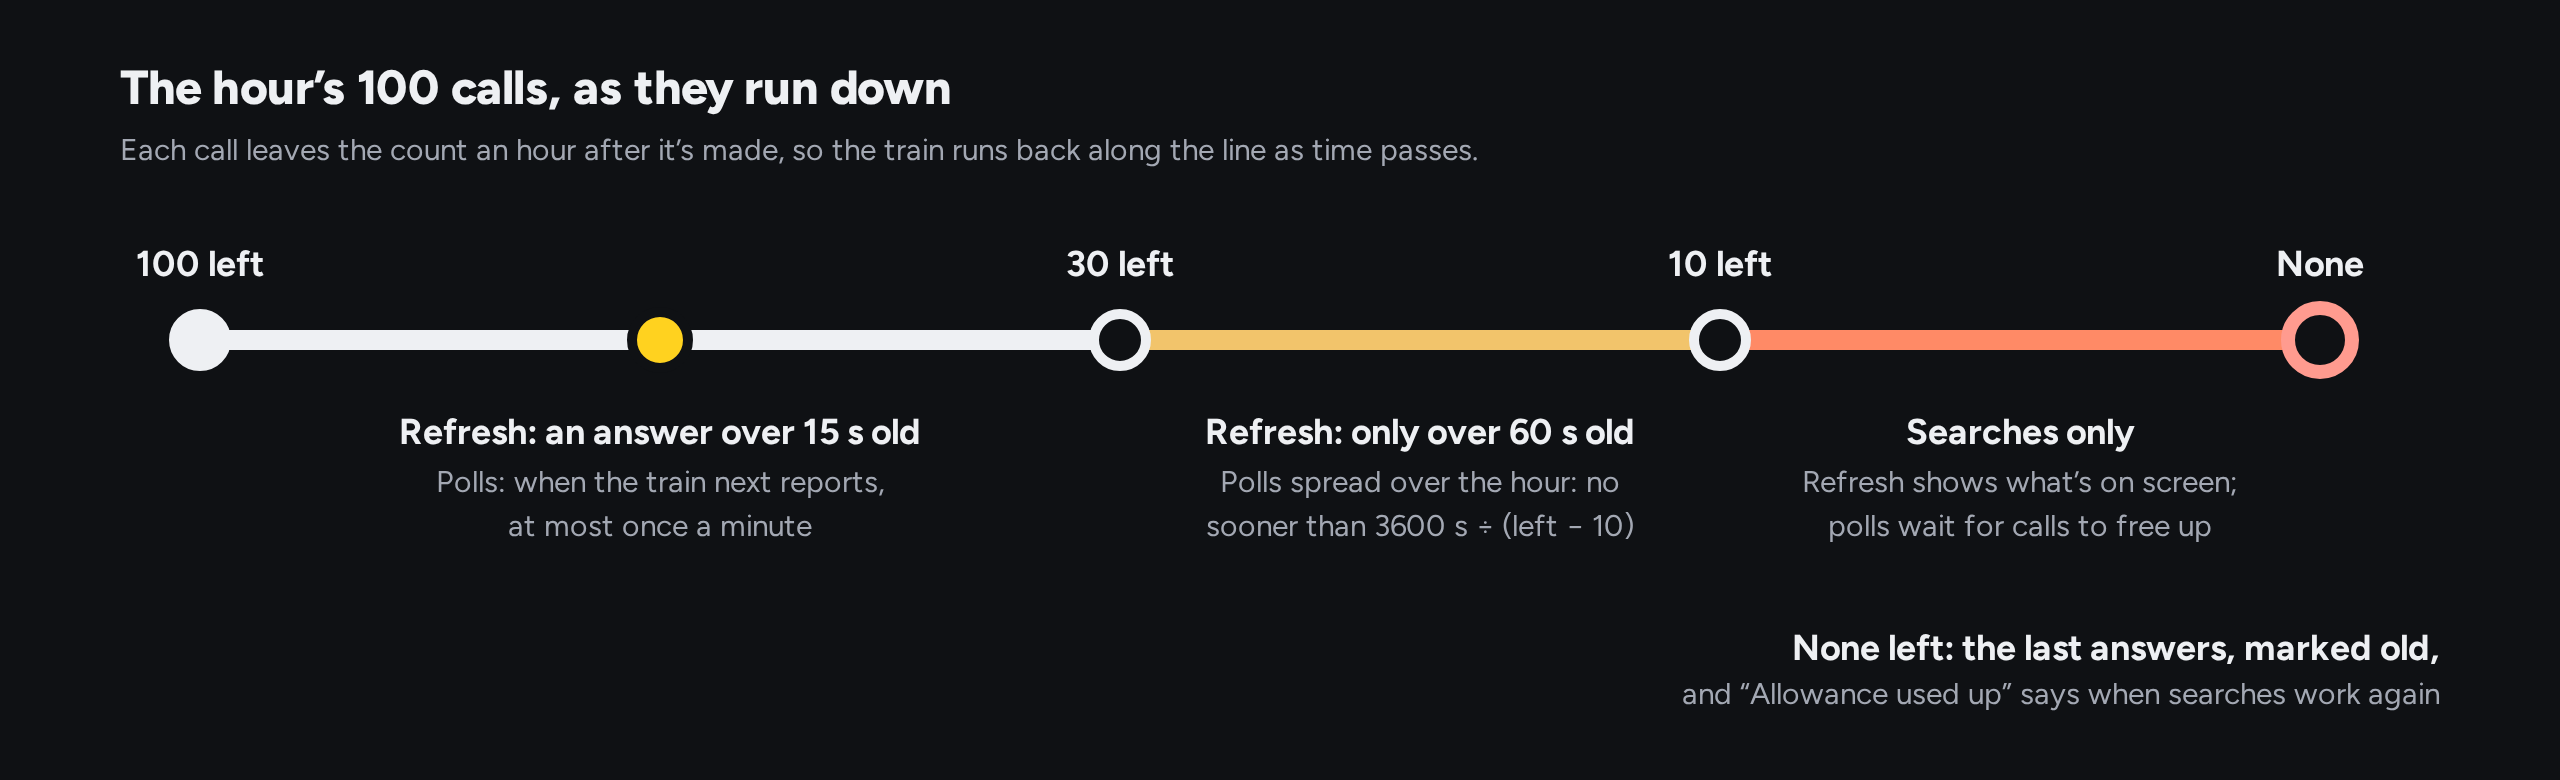
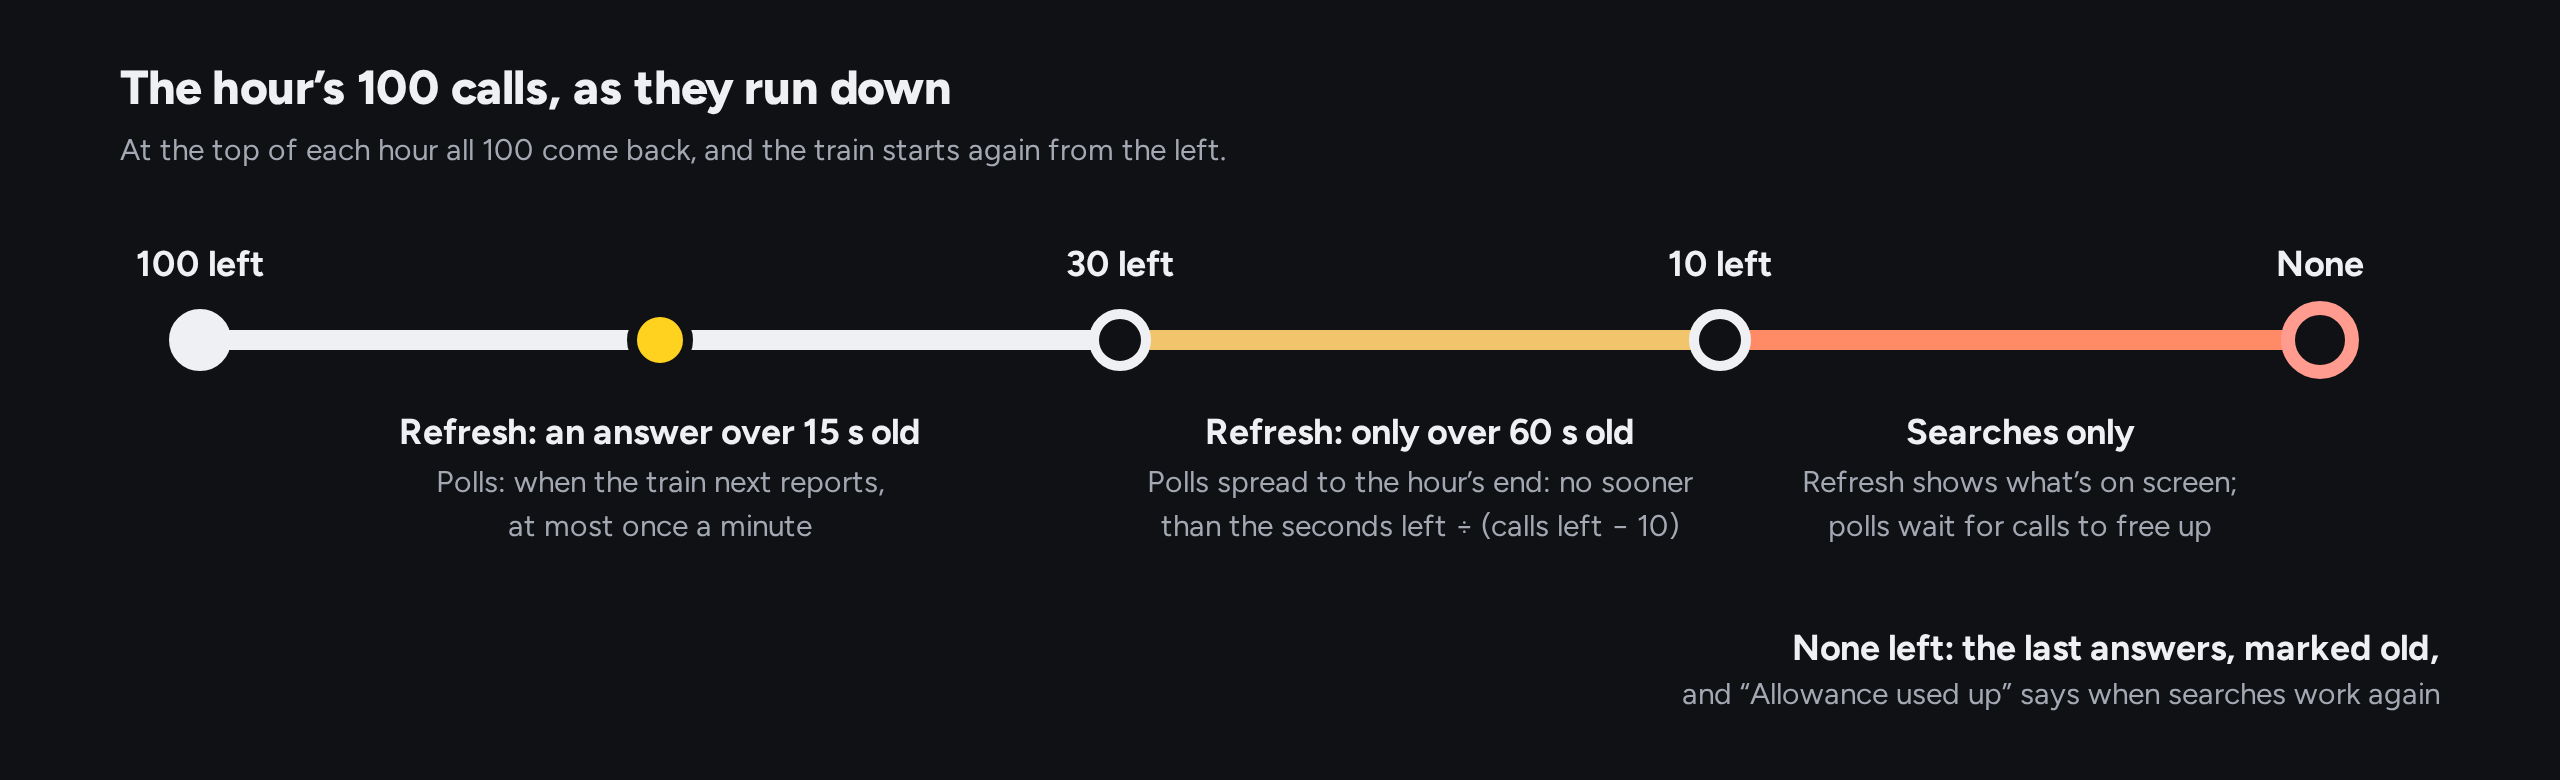
The hour's calls come back at the top of the hour
RTT's minute and hour are clock windows (measured), not rolling ones. A spent hour now frees at the top of the next, and polls spread what's left to the hour's end. The day and week stay rolling until measured.

Changed region(s): [[0.4375, 0.5846, 0.6562, 0.7077], [0.0312, 0.1846, 0.5938, 0.2154]]

diff --git a/src/core/budget.ts b/src/core/budget.ts
@@ -7,6 +7,13 @@ export const DIMENSIONS = { minute: 60, hour: 3600, day: 86400, week: 604800 } a
 export type Dim = keyof typeof DIMENSIONS;
 const DIMS = Object.keys(DIMENSIONS) as Dim[];
 export const FREE_LIMITS: Record<Dim, number> = { minute: 10, hour: 100, day: 1000, week: 10000 }; // as RTT sent them, 2026-11-08
+/**
+ * The windows RTT counts by the clock: all their calls come back at the top of the minute or hour (seen 2026-11-08:
+ * a full 10 at 22:19:06 after a call at 22:18:54; a full 100 at 23:00:08 after calls from 22:20). The day and week
+ * aren't known to, so they're counted as rolling windows, which can only be too careful. UK time is a whole number of
+ * hours from UTC, so the clock's minutes and hours start on UTC's.
+ */
+const CLOCK_WINDOWS: ReadonlySet<Dim> = new Set<Dim>(["minute", "hour"]);
 
 export interface BudgetState {
   limits: Record<Dim, number>;
@@ -35,10 +42,21 @@ export class Budget {
     return new Budget(clock, 0, true);
   }
 
-  /** Calls in the last `secs` seconds. One exactly that old has just left, so freeAt can name an exact moment. */
-  private used(now: Ms, secs: number): number {
-    const cutoff = now - secs * 1000;
-    return this.calls.filter((t) => t > cutoff).length;
+  /** When a clock window started, at `now`. */
+  private static start(dim: Dim, now: Ms): Ms {
+    const win = DIMENSIONS[dim] * 1000;
+    return Math.floor(now / win) * win;
+  }
+
+  /** Whether a call (or a header) made at `t` still counts in this window at `now`. */
+  private static counts(dim: Dim, t: Ms, now: Ms): boolean {
+    if (CLOCK_WINDOWS.has(dim)) return t >= Budget.start(dim, now);
+    return t > now - DIMENSIONS[dim] * 1000; // one exactly that old has just left, so freeAt can name an exact moment
+  }
+
+  /** Calls counted in this window. */
+  private used(now: Ms, dim: Dim): number {
+    return this.calls.filter((t) => Budget.counts(dim, t, now)).length;
   }
 
   /** How many free calls in this window a kind of call needs: background ones leave the reserve for searches. */
@@ -47,12 +65,14 @@ export class Budget {
   }
 
   /**
-   * When `need` calls in this window are free again, if nothing more is spent: our own count frees up as its oldest
-   * calls leave the window, a header's count when its window is over. Null if it never can (a limit below `need`).
+   * When `need` calls in this window are free again, if nothing more is spent: a clock window's all at once when it
+   * turns; a rolling one's as its oldest calls leave, or a header's count when its window is over. Null if it never
+   * can (a limit below `need`).
    */
   freeAt(dim: Dim, need: number, now: Ms = this.clock()): Ms | null {
     const win = DIMENSIONS[dim] * 1000;
     if (this.limits[dim] < need) return null;
+    if (CLOCK_WINDOWS.has(dim)) return this.remaining(dim, now) >= need ? now : Budget.start(dim, now) + win;
     const inWindow = this.calls.filter((t) => t > now - win);
     const leave = inWindow.length - (this.limits[dim] - need); // this many of the oldest must leave
     let at = leave > 0 ? inWindow[leave - 1] + win : now;
@@ -73,12 +93,12 @@ export class Budget {
   }
 
   remaining(dim: Dim, now: Ms = this.clock()): number {
-    let ours = this.limits[dim] - this.used(now, DIMENSIONS[dim]);
+    let ours = this.limits[dim] - this.used(now, dim);
     const h = this.headerRemaining.get(dim);
     if (h) {
       const [value, seen] = h;
       const since = this.calls.filter((t) => t > seen).length;
-      if (now - seen < DIMENSIONS[dim] * 1000) ours = Math.min(ours, value - since); // a header holds within its window
+      if (Budget.counts(dim, seen, now)) ours = Math.min(ours, value - since); // a header holds within its window
     }
     return Math.max(ours, 0);
   }
@@ -127,11 +147,16 @@ export class Budget {
     }
   }
 
-  /** Seconds between background re-fetches of one train, so the hour isn't used up early. */
+  /**
+   * Seconds between background re-fetches of one train, so the hour isn't used up early: what's left (less the
+   * reserve), spread over the time until the hour turns and all its calls come back.
+   */
   refreshInterval(floor = 30): number {
-    const left = this.remaining("hour") - this.reserve;
+    const now = this.clock();
+    const left = this.remaining("hour", now) - this.reserve;
     if (left <= 0) return 600;
-    return Math.max(floor, 3600 / left);
+    const untilTurn = (Budget.start("hour", now) + DIMENSIONS.hour * 1000 - now) / 1000;
+    return Math.max(floor, untilTurn / left);
   }
 
   state(): BudgetState {

diff --git a/test/core.test.ts b/test/core.test.ts
@@ -40,32 +40,45 @@ describe("budget", () => {
     clock.advance(31);
     expect(b.canSpend(true)).toBe(true);
   });
-  it("slows refreshes when the hour runs low", () => {
-    const b = new Budget(clock.now);
-    expect(b.refreshInterval()).toBe(40);
+  // RTT's minute and hour are the clock's (seen 2026-11-08: a full 10 again at 22:19:06 after a call at 22:18:54, and a
+  // full 100 at 23:00:08 after calls from 22:20). So the hour's calls all come back at the top of the hour.
+  it("paces what's left of the hour over the time until it turns", () => {
+    const b = new Budget(clock.now); // 14:20: 40 minutes left
+    expect(b.refreshInterval()).toBe(30); // 2400 s ÷ 90 is under the floor
     b.observe(200, { "x-ratelimit-remaining-hour": "20" });
-    expect(b.refreshInterval()).toBe(360);
+    expect(b.refreshInterval()).toBe(240); // 2400 s ÷ 10
     b.observe(200, { "x-ratelimit-remaining-hour": "5" });
     expect(b.refreshInterval()).toBe(600);
   });
-  it("knows when a spent hour frees up: when its oldest calls are an hour old", () => {
+  it("a spent hour frees at the top of the next one, all at once", () => {
     const b = new Budget(clock.now);
-    const first = clock.now();
     for (let i = 0; i < 100; i++) {
       b.spend();
-      clock.advance(30); // two a minute: only the hour runs out
+      clock.advance(10); // the minute never runs out (spend doesn't ask), the hour does, by 14:36:40
     }
+    const top = fromLondon(2026, 11, 7, 15, 0);
     expect(b.remaining("hour")).toBe(0);
-    expect(b.freeAt("hour", 1)).toBe(first + 3_600_000);
-    expect(b.freeAt("hour", 11)).toBe(first + 10 * 30_000 + 3_600_000); // the 11th oldest call leaves
-    expect(b.freeAt("minute", 1)).toBe(clock.now()); // not spent: free now
-    clock.t = first + 3_600_000;
-    expect(b.remaining("hour")).toBe(1);
+    expect(b.freeAt("hour", 1)).toBe(top);
+    expect(b.freeAt("hour", 11)).toBe(top);
+    clock.t = top - 1000;
+    expect(b.remaining("hour")).toBe(0);
+    clock.t = top;
+    expect(b.remaining("hour")).toBe(100);
+    expect(b.remaining("day")).toBe(900); // the day isn't known to be the clock's: it stays a rolling 24 hours
   });
-  it("a header saying the hour is spent holds until its hour is over", () => {
+  it("a spent minute frees at the top of the next minute", () => {
+    clock.t = fromLondon(2026, 11, 7, 14, 20) + 50_000;
+    const b = new Budget(clock.now);
+    for (let i = 0; i < 10; i++) b.spend();
+    expect(b.canSpend(true)).toBe(false);
+    expect(b.freeAt("minute", 1)).toBe(fromLondon(2026, 11, 7, 14, 21));
+  });
+  it("a header saying the hour is spent holds until the hour turns, not for an hour", () => {
     const b = new Budget(clock.now);
     b.observe(200, { "x-ratelimit-remaining-hour": "0" });
-    expect(b.freeAt("hour", 1)).toBe(clock.now() + 3_600_000);
+    expect(b.freeAt("hour", 1)).toBe(fromLondon(2026, 11, 7, 15, 0));
+    clock.t = fromLondon(2026, 11, 7, 15, 0);
+    expect(b.remaining("hour")).toBe(100); // the old header belongs to the last hour
   });
 });
 

diff --git a/test/messages.test.ts b/test/messages.test.ts
@@ -28,23 +28,24 @@ describe("when the allowance stops a call", () => {
     const e = await c.service("X1:2026-11-07").catch((x: unknown) => x);
     expect(e).toBeInstanceOf(AllowanceError);
     expect(e).toBeInstanceOf(BusyError); // still retried like any busy answer
-    expect((e as Error).message).toBe("This key's calls for this hour are used up. Searches work again at 10:20.");
+    expect((e as Error).message).toBe("This key's calls for this hour are used up. Searches work again at 10:00.");
   });
 
-  it("an hour spent by its own calls names the time, and tries again only once a background call can go", async () => {
-    const own = new Clock(fromLondon(2026, 11, 7, 8, 30));
+  it("an hour spent by its own calls names the top of the hour, and the retry waits for it too", async () => {
+    const own = new Clock(fromLondon(2026, 11, 7, 9, 0));
     const b = new Budget(own.now);
     const c = new RttClient(ok, ACCESS, b, own.now);
     for (let i = 0; i < 100; i++) {
       b.spend();
-      own.advance(30); // the last at 09:19:30
+      own.advance(12); // the last at 09:19:48
     }
     const e = await c.service("X4:2026-11-07").catch((x: unknown) => x);
-    expect((e as Error).message).toBe("This key's calls for this hour are used up. Searches work again at 09:30.");
-    // The page's retry is a background call, which can't use the 10 kept for searches: not before 11 are free
+    expect((e as Error).message).toBe("This key's calls for this hour are used up. Searches work again at 10:00.");
+    // The page's retry is a background call, which can't use the 10 kept for searches: not before 11 are free, which
+    // with the clock's hour is the same moment
     const at = (e as BusyError).retryAt!;
     expect(at).toBeGreaterThanOrEqual(b.freeAt("hour", 11)!);
-    expect(text(problemView("Allowance used up", (e as Error).message, { secs: 30, at }))).toMatch(/tries again by itself at 09:35/);
+    expect(text(problemView("Allowance used up", (e as Error).message, { secs: 30, at }))).toMatch(/tries again by itself at 10:00/);
   });
 
   it("names the minute when only the minute's calls are gone", async () => {

diff --git a/test/readme/allowance.pictures.ts b/test/readme/allowance.pictures.ts
@@ -93,7 +93,7 @@ test("the hour: as its calls run down, the app slows itself", async ({ page, err
   const W = 1280, H = 390, Y = 170;
   const svg = `<svg width="${W}" height="${H}" viewBox="0 0 ${W} ${H}" role="img">
     ${text("h", 60, 52, ["The hour’s 100 calls, as they run down"], "start")}
-    ${text("s", 60, 80, ["Each call leaves the count an hour after it’s made, so the train runs back along the line as time passes."], "start")}
+    ${text("s", 60, 80, ["At the top of each hour all 100 come back, and the train starts again from the left."], "start")}
     <path class="line" d="M100 ${Y} L560 ${Y}"/>
     <path class="low" d="M560 ${Y} L860 ${Y}"/>
     <path class="kept" d="M860 ${Y} L1160 ${Y}"/>
@@ -109,7 +109,7 @@ test("the hour: as its calls run down, the app slows itself", async ({ page, err
     ${text("t", 330, 222, ["Refresh: an answer over 15 s old"])}
     ${text("s", 330, 246, ["Polls: when the train next reports,", "at most once a minute"])}
     ${text("t", 710, 222, ["Refresh: only over 60 s old"])}
-    ${text("s", 710, 246, ["Polls spread over the hour: no", "sooner than 3600 s ÷ (left − 10)"])}
+    ${text("s", 710, 246, ["Polls spread to the hour’s end: no sooner", "than the seconds left ÷ (calls left − 10)"])}
     ${text("t", 1010, 222, ["Searches only"])}
     ${text("s", 1010, 246, ["Refresh shows what’s on screen;", "polls wait for calls to free up"])}
     ${text("t", 1220, 330, ["None left: the last answers, marked old,"], "end")}

diff --git a/test/rail.test.ts b/test/rail.test.ts
@@ -53,8 +53,10 @@ describe("a stale answer near the end of a journey", () => {
   });
 
   it("the hour's calls kept back: keeps asking, no sooner than the allowance allows", async () => {
-    await cached(route(), { "x-ratelimit-remaining-hour": "10" }); // only the search reserve left
+    await cached(route());
     clock.advance(lateEnough);
+    // only the search reserve left, said in this hour (the hour is the clock's: one from 07:50 has gone by 08:42)
+    rail.budget.observe(200, { "x-ratelimit-remaining-hour": "10" });
     const res = await rail.service(UID, { background: true });
     expect(res.fetched.stale).toBe(true);
     expect(res.refreshAfter).toBe(Math.max(POLL.overdue, rail.budget.refreshInterval()));

diff --git a/README.md b/README.md
@@ -91,8 +91,9 @@ reasoned guess, not a tested model, and it's always drawn as a dashed ring.
 
 ### How it spends your allowance
 
-Your key's allowance is 10 calls a minute, 100 an hour and 1000 a day (Free and Hobbyist). Each window rolls: a call
-counts against it until it's that old. Every call goes through one budget, which also obeys the limits Realtime
+Your key's allowance is 10 calls a minute, 100 an hour and 1000 a day (Free and Hobbyist). The minute and the hour
+are the clock's: all their calls come back at the top of each minute and hour. The day is counted as rolling (a call
+counts until it's a day old), as Realtime Trains doesn't say when it starts. Every call goes through one budget, which also obeys the limits Realtime
 Trains reports with each answer, and any "wait until" it sends.
 
 <picture>
@@ -104,7 +105,7 @@ As the hour's calls run down, the app slows itself, so they last the hour:
 
 <picture>
   <source media="(prefers-color-scheme: dark)" srcset="docs/img/allowance-hour-dark.png">
-  <img alt="The hour's 100 calls as a line from 100 left to none, the train partway along. Each call leaves the count an hour after it's made, so the train runs back along the line as time passes. From 100 to 30 left: Refresh fetches an answer over 15 seconds old, and polls come when the train next reports, at most once a minute. From 30 to 10: Refresh only for an answer over 60 seconds old, and polls spread over the hour, no sooner than 3600 seconds divided by the calls left minus 10. From 10 to none: searches only; Refresh shows what's on screen, and polls wait for calls to free up. None left: the last answers, marked old, and 'Allowance used up' says when searches work again." src="docs/img/allowance-hour-light.png">
+  <img alt="The hour's 100 calls as a line from 100 left to none, the train partway along. At the top of each hour all 100 come back, and the train starts again from the left. From 100 to 30 left: Refresh fetches an answer over 15 seconds old, and polls come when the train next reports, at most once a minute. From 30 to 10: Refresh only for an answer over 60 seconds old, and polls spread to the end of the hour, no sooner than the seconds left divided by the calls left minus 10. From 10 to none: searches only; Refresh shows what's on screen, and polls wait for calls to free up. None left: the last answers, marked old, and 'Allowance used up' says when searches work again." src="docs/img/allowance-hour-light.png">
 </picture>
 
 <sub>Drawn like the app's route line by <code>npm run readme-pictures</code>, from the rules in <code>src/core/budget.ts</code> and <code>src/core/poll.ts</code>.</sub>

diff --git a/AGENTS.md b/AGENTS.md
@@ -92,8 +92,10 @@ scripts/       git-hooks/ (pre-commit, commit-msg, pre-push), commit.sh (npm run
   (not the token swap, nor a refused key). The last 10 calls of each hour are kept for searches: background work never spends them. Running out shows the last answer, never "not found"; with
   nothing kept, "Allowance used up" when this key's calls are spent (`AllowanceError`: ours, not RTT's), or "busy" when
   RTT asked us to wait. That page names one wait: its own (Problem pages, below), or the time RTT gave when that is
-  later (`BusyError.retryAt`). "Allowance used up" says when searches work again (`Budget.freeAt`, as the oldest
-  calls leave the window), and its retry, a background call, waits until 11 calls are free so it can succeed.
+  later (`BusyError.retryAt`). "Allowance used up" says when searches work again (`Budget.freeAt`), and its retry,
+  a background call, waits until 11 calls are free so it can succeed. RTT's minute and hour are the clock's (seen
+  2026-11-08): all their calls come back at the top of the minute or hour. The day and week aren't known to be, so
+  they're counted as rolling windows (a call counts until it's a day or week old), which can only be too careful.
 - **Be plain about limits.** Say when data is simulated, stale, estimated by us, or missing. Never pass our estimate off
   as RTT's forecast. RTT has no signal or berth data: never claim signals.
 - **Tests never touch the network.** Unit tests use the simulator or fakes; browser tests fake RTT and GitHub and fail on
@@ -194,7 +196,7 @@ one line of facts; class and units are in the Train view. Explanations (an outli
   at all, it says the times shown are the timetable (`no-data`); reported on the way, it says where it was last
   reported and that its arrival wasn't (`unreported`). Only a fresh answer gives up: an old one served again (RTT
   down, or calls kept back) that looks given up keeps polling, every minute or the allowance's floor, and says it
-  couldn't get a new answer (`Rail.service`). The allowance's own floor, `3600 / (calls left this hour - 10)`,
+  couldn't get a new answer (`Rail.service`). The allowance's own floor, `seconds until the hour turns / (calls left this hour - 10)`,
   can only slow it. A failed fetch stretches the wait (`nextWait`), to at most 5 minutes, but never cuts a longer
   planned wait short. Nothing polls in the background; coming back fetches only if a poll is due. About 45 calls an
   hour per train.
